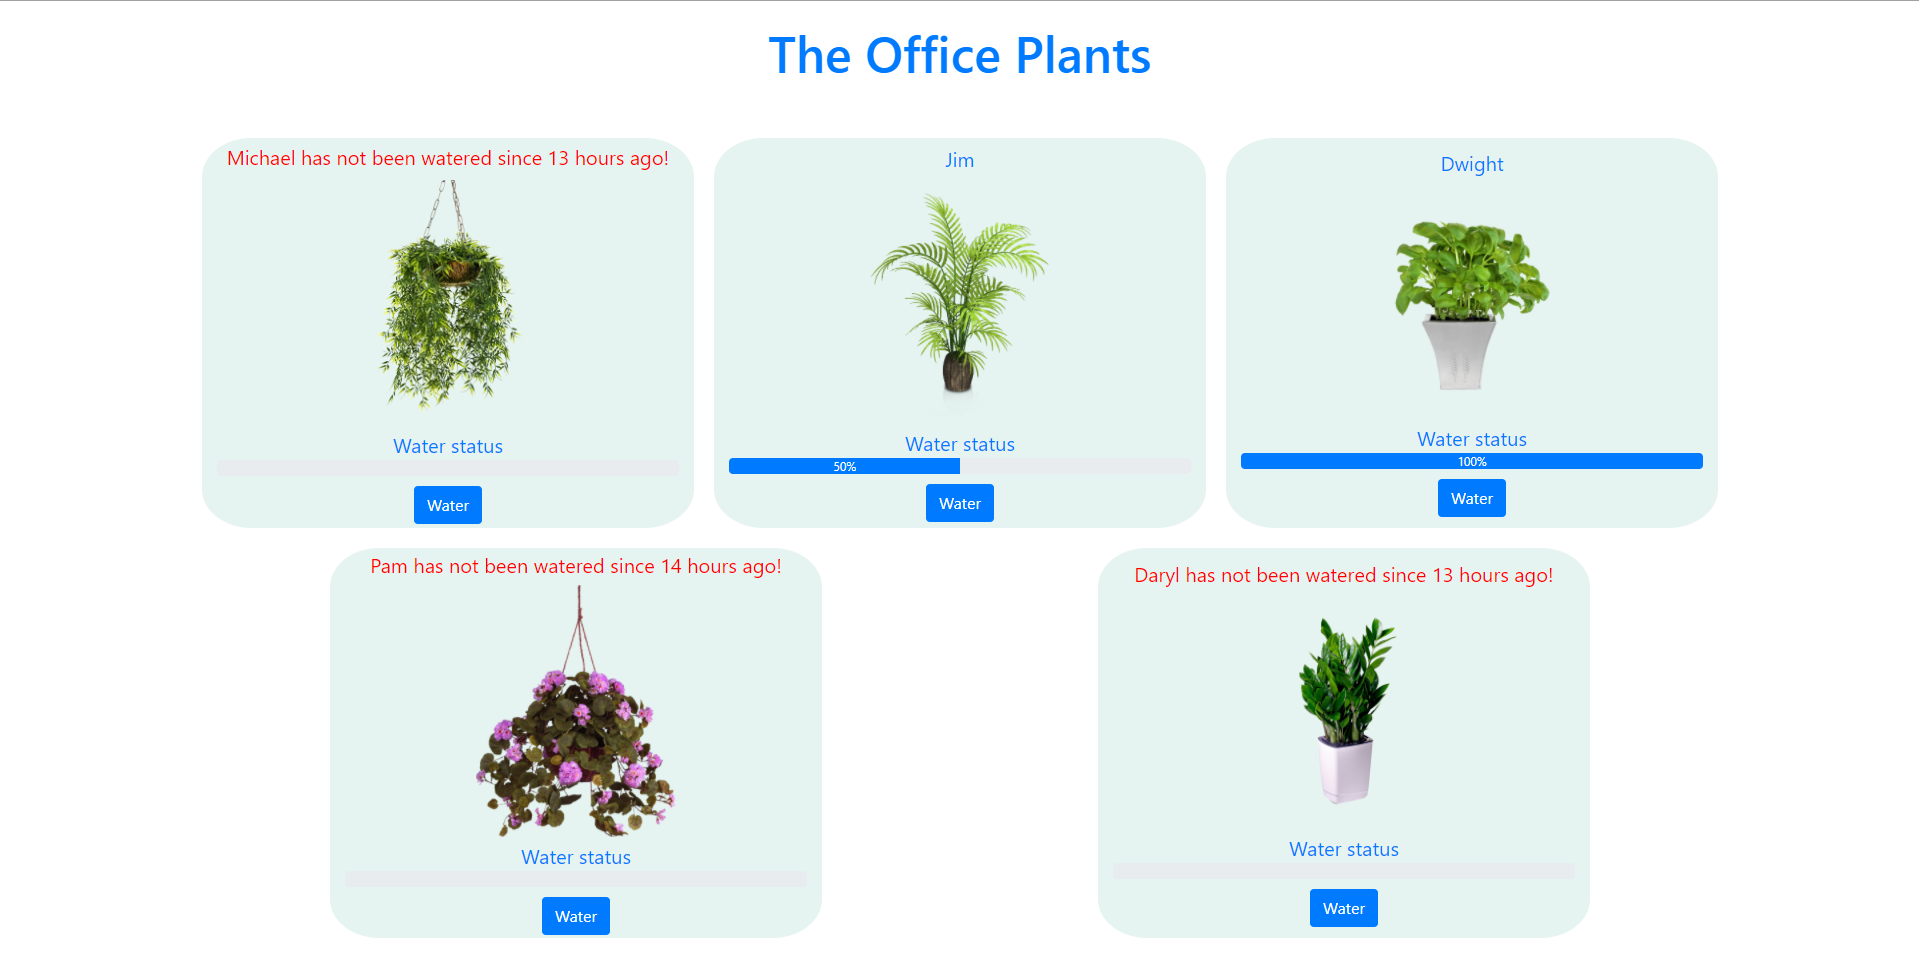
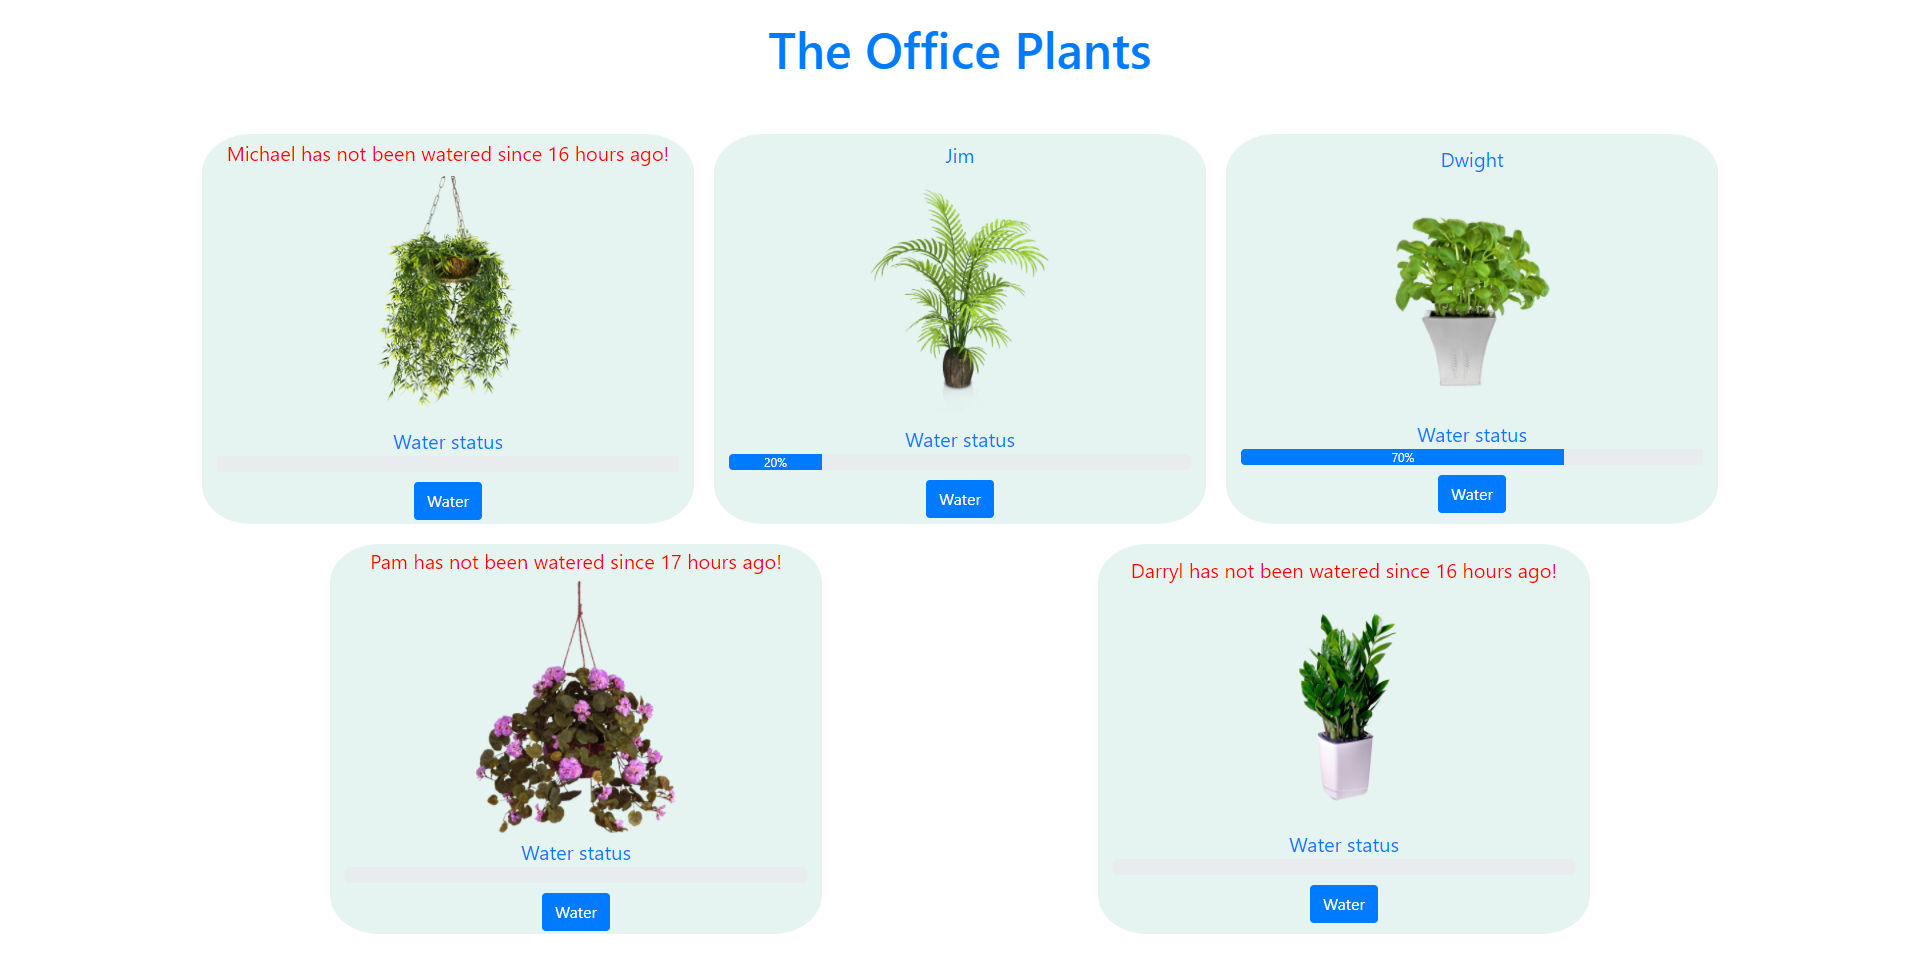
Further README tweaks

diff --git a/frontend/src/components/PlantsTable.js b/frontend/src/components/PlantsTable.js
@@ -14,7 +14,7 @@ export const PlantsTable = () => {
     const dispatch = useDispatch();
     const [counter, setCounter] = useState(0);
     const [images, setImages] = useState([plant1img, plant2img, plant5img, plant4img, plant3img])
-    const [names, setNames] = useState(["Michael", "Jim", "Dwight", "Pam", "Daryl"])
+    const [names, setNames] = useState(["Michael", "Jim", "Dwight", "Pam", "Darryl"])
 
     useEffect(() => {
         SetPlants(dispatch);

diff --git a/README.md b/README.md
@@ -4,14 +4,15 @@ Our goal is to keep our 5 plants alive! This is an application that enables user
 
 ## How to run
 ASP.NET Backend
-1. In Visual Studio, run the 'backend' server
-2. This should open up a webpage to 'http://localhost:5000/plants' 
+1. In Visual Studio, open to backend directory
+2. Change the program from IIS Express to backend and run the server
+3. This should open up a webpage to 'http://localhost:5000/plants' with JSON elements
 
 React Frontend
-1. run 'npm install' in the frontend directory
-2. run 'npm start' to launch the browser
-3. The webpage will now try to connect to 'http://localhost:5000/plants'
-
+1. Open frontend directory in IDE of choice
+2. run 'npm install' in the frontend directory
+3. run 'npm start' to launch the browser
+4. The opened webpage will now try to connect to he backend server at 'http://localhost:5000/plants'
 
 ## Troubleshooting
 * if Visual Studio's server does not open up to 'http://localhost:5000/plants', a tweak to the correct server will be required.
@@ -23,12 +24,20 @@ You can find the area to be tweaked in frontend/src/services/plants.js
     })
 ```
 
+## Features
+* Lists all plants on web page and corresponding watering status
+* Begin and cease watering plant
+* Can water multiple plants simultaneously
+* Prevent over-watering with 30 second watering cooldown
+* Visual warning when plant has not been watered in over 6 hours
+
 ## Other
 ### Screenshot:
 ![Image of Application](https://github.com/AlKL/TheOfficePlants/blob/main/frontend/src/images/screenshot.PNG)
 
 ### Assumptions:
 - A plant takes 10 seconds to water from 0 to 10, thus each second increases one water level
+- A plant dehydrates by 1 water level every hour
 
 ### Notes:
 - If you water a plant once, for example from 0 -> 1. It resets the hoursSinceWatered to 0. Thus, after an hour, the plant will be at level 0, but the user won't be alarmed since it hasn't been 6 hours. 
@@ -37,3 +46,5 @@ You can find the area to be tweaked in frontend/src/services/plants.js
 ### Potential extensions:
 - Generate a report based on SQL table (ie average waterlevel during given time of day)
 - Responsive design
+- Add and delete plants
+- Update plant picture
